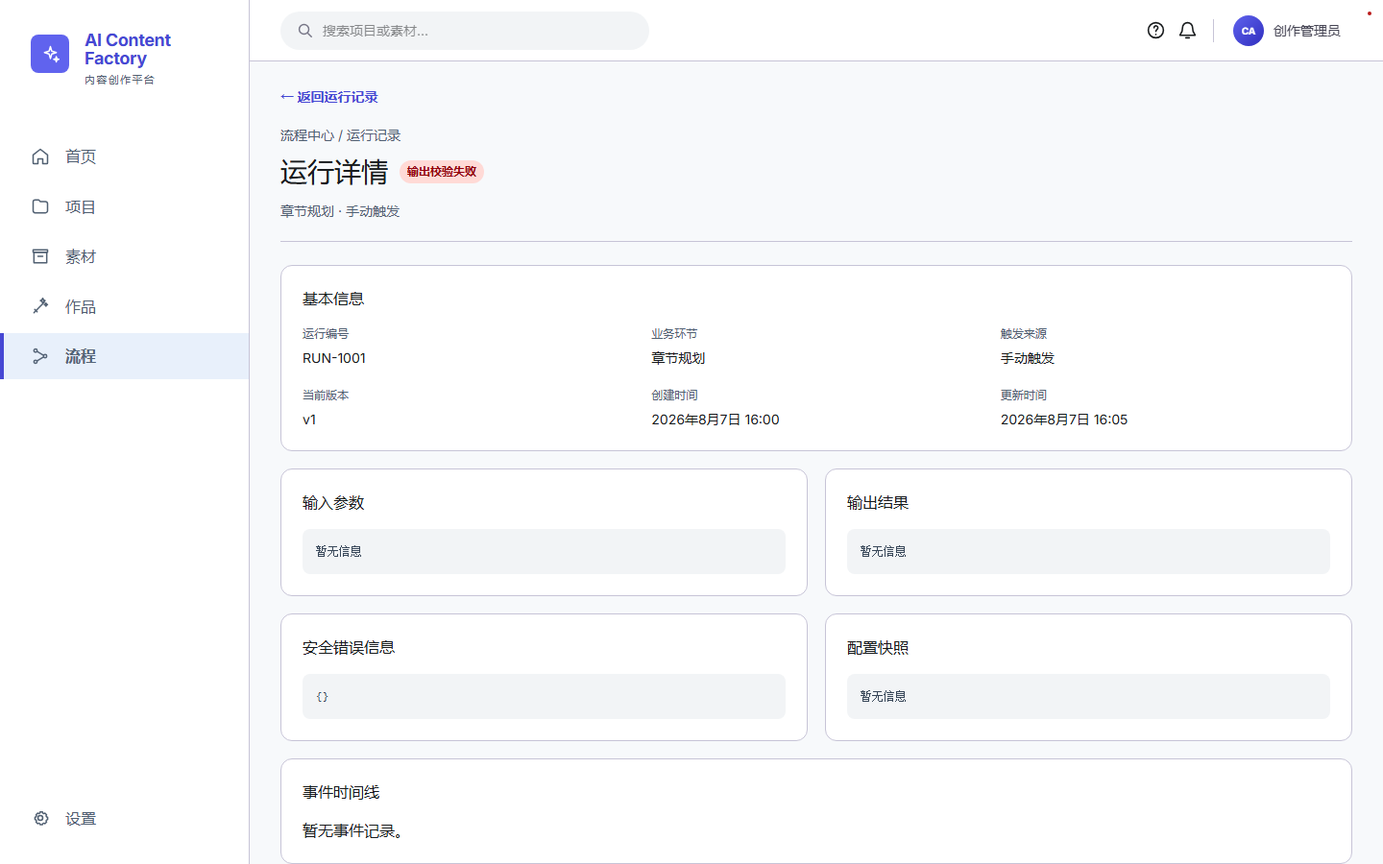
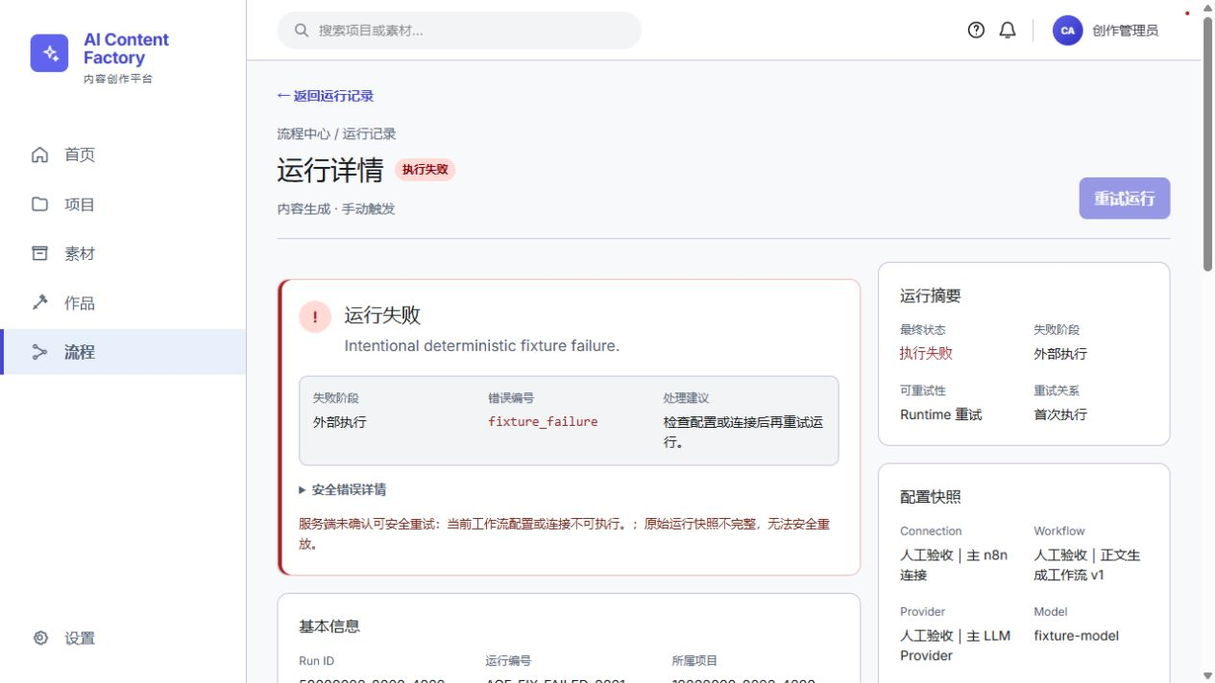
fix(workflow-runs): add failed run diagnosis

diff --git a/apps/web/src/features/workflow-runs/workflow-run-detail-page.tsx b/apps/web/src/features/workflow-runs/workflow-run-detail-page.tsx
@@ -4,38 +4,59 @@ import Link from "next/link";
 import { useCallback, useEffect, useState } from "react";
 import { ApiError } from "@/lib/api";
 import { newIdempotencyKey } from "@/features/workflow-bindings/workflow-binding-api";
-import { cancelWorkflowRun, formatWorkflowRunJson, formatWorkflowRunTime, getWorkflowRun, getWorkflowRunRetryOptions, listWorkflowRunEvents, retryWorkflowRun, type WorkflowRunDetailVm, type WorkflowRunEventVm, type WorkflowRunRetryMode, type WorkflowRunRetryOptions } from "./workflow-run-api";
+import {
+  cancelWorkflowRun,
+  formatWorkflowRunTime,
+  getWorkflowRun,
+  getWorkflowRunRetryOptions,
+  listWorkflowRunEvents,
+  retryWorkflowRun,
+  retryWorkflowRunResultConsumption,
+  type WorkflowRunDetailVm,
+  type WorkflowRunEventVm,
+  type WorkflowRunRetryMode,
+  type WorkflowRunRetryOptions,
+} from "./workflow-run-api";
+
+type RunAction = "cancel" | "retry" | "retry_result";
 
 const apiError = (cause: unknown) => cause instanceof ApiError ? cause : new ApiError("暂时无法获取运行详情。", 0);
+const asRecord = (value: unknown): Record<string, unknown> => value && typeof value === "object" && !Array.isArray(value) ? value as Record<string, unknown> : {};
+const text = (value: unknown, fallback = "—") => typeof value === "string" || typeof value === "number" ? String(value) : fallback;
+
+const redactValue = (value: unknown): unknown => {
+  if (Array.isArray(value)) return value.map(redactValue);
+  if (value && typeof value === "object") {
+    return Object.fromEntries(Object.entries(value).map(([key, item]) => /token|secret|password|authorization|api.?key/i.test(key) ? [key, "[已隐藏]"] : [key, redactValue(item)]));
+  }
+  return value;
+};
+
+const formatPayload = (value: unknown) => {
+  const safe = redactValue(value);
+  return safe && typeof safe === "object" && Object.keys(safe).length ? JSON.stringify(safe, null, 2) : "暂无信息";
+};
 
 function JsonBlock({ title, value }: { title: string; value: unknown }) {
-  return <section className="workflow-run-detail-card"><h2>{title}</h2><pre>{formatWorkflowRunJson(value)}</pre></section>;
+  return <section className="workflow-run-detail-card"><h2>{title}</h2><pre>{formatPayload(value)}</pre></section>;
 }
 
 function Timeline({ events, error, retry }: { events: WorkflowRunEventVm[] | null; error: boolean; retry: () => void }) {
   if (error) return <section className="workflow-run-detail-card"><h2>事件时间线</h2><p>暂时无法获取事件记录。</p><button type="button" onClick={retry}>重新加载事件</button></section>;
   if (!events?.length) return <section className="workflow-run-detail-card"><h2>事件时间线</h2><p>暂无事件记录。</p></section>;
-  return <section className="workflow-run-detail-card"><h2>事件时间线</h2><ol className="workflow-run-timeline">{events.map((event) => <li key={event.id}><div><strong>{event.title}</strong><span>{event.statusLabel} · {event.createdAtLabel}</span></div>{event.payload && <pre>{formatWorkflowRunJson(event.payload)}</pre>}</li>)}</ol></section>;
+  return <section className="workflow-run-detail-card"><h2>事件时间线</h2><ol className="workflow-run-timeline">{events.map((event) => <li key={event.id}><div><strong>{event.title}</strong><span>{event.statusLabel} · {event.createdAtLabel}</span></div>{event.payload && <pre>{formatPayload(event.payload)}</pre>}</li>)}</ol></section>;
 }
 
-function Confirm({ action, busy, retryMode, retryOptions, onCancel, onConfirm, onRetryModeChange }: { action: "cancel" | "retry"; busy: boolean; retryMode: WorkflowRunRetryMode; retryOptions: WorkflowRunRetryOptions | null; onCancel: () => void; onConfirm: () => void; onRetryModeChange: (mode: WorkflowRunRetryMode) => void }) {
-  const retry = action === "retry";
-  const choices = retryOptions ? [retryOptions.currentConfiguration, retryOptions.originalConfiguration] : [];
+function Confirm({ action, busy, retryMode, retryOptions, onCancel, onConfirm, onRetryModeChange }: { action: RunAction; busy: boolean; retryMode: WorkflowRunRetryMode; retryOptions: WorkflowRunRetryOptions | null; onCancel: () => void; onConfirm: () => void; onRetryModeChange: (mode: WorkflowRunRetryMode) => void }) {
+  const cancel = action === "cancel";
+  const runtimeRetry = action === "retry";
+  const resultRetry = action === "retry_result";
+  const choices = runtimeRetry && retryOptions ? [retryOptions.currentConfiguration, retryOptions.originalConfiguration] : [];
   const selected = choices.find((option) => option.mode === retryMode);
-  return <div className="workflow-run-modal" role="dialog" aria-modal="true" aria-label={retry ? "确认重试" : "确认取消"}><div><h2>{retry ? "确认重试运行" : "确认取消运行"}</h2><p>{retry ? "请选择服务器确认可用的重试方式。" : "取消后运行将停止，且无法恢复为执行中。"}</p>{retry && choices.map((option) => <label key={option.mode}><input type="radio" name="retry-mode" checked={retryMode === option.mode} disabled={busy || !option.enabled} onChange={() => onRetryModeChange(option.mode)} />{option.mode === "current_configuration" ? "使用当前配置" : "使用原配置"}{!option.enabled && <span>：{option.reasons.map((reason) => reason.message).join(" ")}</span>}</label>)}<footer><button type="button" disabled={busy} onClick={onCancel}>返回</button><button type="button" disabled={busy || (retry && !selected?.enabled)} onClick={onConfirm}>{busy ? "提交中…" : retry ? "确认重试" : "确认取消"}</button></footer></div></div>;
+  const title = cancel ? "确认取消运行" : resultRetry ? "确认重试结果消费" : "确认重试运行";
+  const description = cancel ? "取消后运行将停止，且无法恢复为执行中。" : resultRetry ? "该操作只会重新消费已返回的结果，不会再次调用外部工作流。" : "请选择服务器确认可用的重试方式。";
+  return <div className="workflow-run-modal" role="dialog" aria-modal="true" aria-label={title}><div><h2>{title}</h2><p>{description}</p>{runtimeRetry && choices.map((option) => <label key={option.mode}><input type="radio" name="retry-mode" checked={retryMode === option.mode} disabled={busy || !option.enabled} onChange={() => onRetryModeChange(option.mode)} />{option.mode === "current_configuration" ? "使用当前配置" : "使用原配置"}{!option.enabled && <span>：{option.reasons.map((reason) => reason.message).join(" ")}</span>}</label>)}<footer><button type="button" disabled={busy} onClick={onCancel}>返回</button><button type="button" disabled={busy || (runtimeRetry && !selected?.enabled)} onClick={onConfirm}>{busy ? "提交中…" : cancel ? "确认取消" : resultRetry ? "确认重试消费" : "确认重试"}</button></footer></div></div>;
 }
-
-const asRecord = (value: unknown): Record<string, unknown> => value && typeof value === "object" && !Array.isArray(value) ? value as Record<string, unknown> : {};
-const text = (value: unknown, fallback = "—") => typeof value === "string" || typeof value === "number" ? String(value) : fallback;
-const redactSuccessValue = (value: unknown): unknown => {
-  if (Array.isArray(value)) return value.map(redactSuccessValue);
-  if (value && typeof value === "object") return Object.fromEntries(Object.entries(value).map(([key, item]) => /token|secret|password|authorization|api.?key/i.test(key) ? [key, "[已隐藏]"] : [key, redactSuccessValue(item)]));
-  return value;
-};
-const formatSuccessPayload = (value: unknown) => {
-  const safe = redactSuccessValue(value);
-  return safe && typeof safe === "object" && Object.keys(safe).length ? JSON.stringify(safe, null, 2) : "暂无信息";
-};
 
 function SuccessRunDetail({ run, events }: { run: WorkflowRunDetailVm; events: WorkflowRunEventVm[] | null }) {
   const configuration = asRecord(run.configurationSnapshot);
@@ -43,36 +64,58 @@ function SuccessRunDetail({ run, events }: { run: WorkflowRunDetailVm; events: W
   const connection = asRecord(configuration.workflowConnection);
   const policy = asRecord(run.llmPolicySnapshot);
   const finishedAtLabel = formatWorkflowRunTime(run.finishedAt);
-  const timeline = [
-    ["已创建", run.createdAtLabel],
-    ["开始执行", run.startedAtLabel],
-    ["运行完成", finishedAtLabel]
-  ].filter(([, value]) => value !== "—");
+  const timeline = [["已创建", run.createdAtLabel], ["开始执行", run.startedAtLabel], ["运行完成", finishedAtLabel]].filter(([, value]) => value !== "—");
 
   return <main className="workflow-run-detail-main"><div className="workflow-run-detail-canvas workflow-run-success-detail">
     <Link className="workflow-run-back" href="/workflow-runs">← 返回运行记录</Link>
     <header><div><p>流程中心 / 运行记录</p><h1>运行详情 <i className="workflow-runs-status succeeded">{run.statusLabel}</i></h1><span>{run.stageLabel} · {run.triggerSourceLabel}</span></div></header>
     <section className="workflow-run-success-summary" aria-label="运行摘要">
-      <div><span>Run ID</span><strong>{run.runNumber}</strong></div>
-      <div><span>业务环节</span><strong>{run.stageLabel}</strong></div>
-      <div><span>开始时间</span><strong>{run.startedAtLabel}</strong></div>
-      <div><span>结束时间</span><strong>{finishedAtLabel}</strong></div>
-      <div><span>耗时</span><strong>{run.durationLabel}</strong></div>
-      <div><span>重试关系</span>{run.retryOfRunId ? <Link href={`/workflow-runs/${run.retryOfRunId}`}>重试自 {run.retryOfRunId}</Link> : <strong>首次执行</strong>}</div>
+      <div><span>Run ID</span><strong>{run.id}</strong></div><div><span>运行编号</span><strong>{run.runNumber}</strong></div><div><span>业务环节</span><strong>{run.stageLabel}</strong></div><div><span>开始时间</span><strong>{run.startedAtLabel}</strong></div><div><span>结束时间</span><strong>{finishedAtLabel}</strong></div><div><span>耗时</span><strong>{run.durationLabel}</strong></div>
     </section>
-    <div className="workflow-run-success-layout">
-      <div>
-        <section className="workflow-run-detail-card"><h2>状态时间线</h2><ol className="workflow-run-success-timeline">{timeline.map(([label, value]) => <li key={label}><strong>{label}</strong><span>{value}</span></li>)}</ol>{events?.length ? <p className="workflow-run-success-events">已记录 {events.length} 条真实运行事件。</p> : <p className="workflow-run-success-events">暂无额外运行事件。</p>}</section>
-        <section className="workflow-run-detail-card"><h2>输入与结果摘要</h2><div className="workflow-run-success-data"><div><h3>输入参数</h3><pre>{formatSuccessPayload(run.inputPayload)}</pre></div><div><h3>结果数据</h3>{run.outputPayload ? <pre>{formatSuccessPayload(run.outputPayload)}</pre> : <p>运行已成功，但服务端未提供结果数据摘要。</p>}</div></div></section>
-        <section className="workflow-run-detail-card workflow-run-success-result"><h2>结果摘要</h2><p>Runtime 已成功完成。领域结果以服务端返回的领域影响为准，不会仅根据成功状态推断候选、报告或版本已被消费。</p><Link className="workflow-run-primary" href="/workflow-runs">返回运行记录</Link></section>
-      </div>
-      <aside className="workflow-run-success-aside">
-        <section className="workflow-run-detail-card"><h2>配置快照</h2><dl><div><dt>Connection</dt><dd>{text(connection.name, text(run.connectionName))}</dd></div><div><dt>Workflow</dt><dd>{text(workflow.name, text(run.workflowName))} {workflow.version ? `v${text(workflow.version)}` : run.workflowVersionLabel}</dd></div><div><dt>Provider</dt><dd>{text(policy.providerName, "不使用模型")}</dd></div><div><dt>Model</dt><dd>{text(policy.model, run.modelStrategyLabel)}</dd></div><div><dt>绑定版本</dt><dd>{text(run.bindingSnapshot?.bindingVersion)}</dd></div></dl></section>
-        {run.externalExecutionId && <section className="workflow-run-detail-card"><h2>外部执行信息</h2><dl><div><dt>外部执行 ID</dt><dd>{run.externalExecutionId}</dd></div></dl></section>}
-        <section className="workflow-run-detail-card"><h2>领域影响</h2>{run.domainImpact.length ? <ul className="workflow-run-domain-impact">{run.domainImpact.map((impact, index) => <li key={`${impact.resourceType}-${impact.resourceId ?? index}`}><strong>{impact.resourceType}</strong><span>{impact.resourceId ?? "—"}</span><em>{impact.outcome}</em></li>)}</ul> : <p className="workflow-run-safe-empty">服务端未返回领域影响记录；这不表示已创建或消费任何领域结果。</p>}</section>
-        <section className="workflow-run-detail-card"><h2>运行元数据</h2><dl><div><dt>创建时间</dt><dd>{run.createdAtLabel}</dd></div><div><dt>更新时间</dt><dd>{run.updatedAtLabel}</dd></div><div><dt>当前版本</dt><dd>v{run.version}</dd></div></dl></section>
-      </aside>
-    </div>
+    <div className="workflow-run-success-layout"><div>
+      <section className="workflow-run-detail-card"><h2>状态时间线</h2><ol className="workflow-run-success-timeline">{timeline.map(([label, value]) => <li key={label}><strong>{label}</strong><span>{value}</span></li>)}</ol><p className="workflow-run-success-events">{events?.length ? `已记录 ${events.length} 条真实运行事件。` : "暂无额外运行事件。"}</p></section>
+      <section className="workflow-run-detail-card"><h2>输入与结果摘要</h2><div className="workflow-run-success-data"><div><h3>输入参数</h3><pre>{formatPayload(run.inputPayload)}</pre></div><div><h3>结果数据</h3>{run.outputPayload ? <pre>{formatPayload(run.outputPayload)}</pre> : <p>运行已成功，但服务端未提供结果数据摘要。</p>}</div></div></section>
+      <section className="workflow-run-detail-card workflow-run-success-result"><h2>结果摘要</h2><p>Runtime 已成功完成。领域结果以服务端返回的领域影响为准，不会仅根据成功状态推断候选、报告或版本已被消费。</p><Link className="workflow-run-primary" href="/workflow-runs">返回运行记录</Link></section>
+    </div><aside className="workflow-run-success-aside">
+      <section className="workflow-run-detail-card"><h2>配置快照</h2><dl><div><dt>Connection</dt><dd>{text(connection.name, text(run.connectionName))}</dd></div><div><dt>Workflow</dt><dd>{text(workflow.name, text(run.workflowName))} {workflow.version ? `v${text(workflow.version)}` : run.workflowVersionLabel}</dd></div><div><dt>Provider</dt><dd>{text(policy.providerName, "未使用模型")}</dd></div><div><dt>Model</dt><dd>{text(policy.model, run.modelStrategyLabel)}</dd></div><div><dt>绑定版本</dt><dd>{text(run.bindingSnapshot?.bindingVersion)}</dd></div></dl></section>
+      {run.externalExecutionId && <section className="workflow-run-detail-card"><h2>外部执行信息</h2><dl><div><dt>外部执行 ID</dt><dd>{run.externalExecutionId}</dd></div></dl></section>}
+      {run.domainImpact.length > 0 && <section className="workflow-run-detail-card"><h2>领域影响</h2><ul className="workflow-run-domain-impact">{run.domainImpact.map((impact, index) => <li key={`${impact.resourceType}-${impact.resourceId ?? index}`}><strong>{impact.resourceType}</strong><span>{impact.resourceId ?? "—"}</span><em>{impact.outcome}</em></li>)}</ul></section>}
+      <section className="workflow-run-detail-card"><h2>运行元数据</h2><dl><div><dt>创建时间</dt><dd>{run.createdAtLabel}</dd></div><div><dt>更新时间</dt><dd>{run.updatedAtLabel}</dd></div><div><dt>当前版本</dt><dd>v{run.version}</dd></div><div><dt>重试关系</dt><dd>{run.retryOfRunId ? <Link href={`/workflow-runs/${run.retryOfRunId}`}>重试自 {run.retryOfRunId}</Link> : "首次执行"}</dd></div></dl></section>
+    </aside></div>
+  </div></main>;
+}
+
+const failurePhaseLabels: Record<string, string> = { external_execution: "外部执行", output_validation: "输出校验", result_consumption: "结果消费", cancellation: "取消处理" };
+
+function FailureRunDetail({ run, events, eventsError, retryOptions, retryAvailable, notice, onAction, onRetryEvents }: { run: WorkflowRunDetailVm; events: WorkflowRunEventVm[] | null; eventsError: boolean; retryOptions: WorkflowRunRetryOptions | null; retryAvailable: boolean; notice: string; onAction: (action: RunAction) => void; onRetryEvents: () => void }) {
+  const failureTitle = run.displayStatus === "output_validation_failed" ? "输出校验失败" : run.displayStatus === "result_consumption_failed" ? "结果消费失败" : run.status === "timed_out" ? "运行超时" : "运行失败";
+  const phaseLabel = run.failurePhase ? failurePhaseLabels[run.failurePhase] ?? run.failurePhase : "—";
+  const errorCode = run.failureCode ?? run.errorCode ?? "—";
+  const errorMessage = run.safeError?.message ?? run.errorMessage ?? "服务端未提供安全错误摘要。";
+  const runtimeRetry = run.canRetry && run.retryability === "runtime_retry";
+  const resultRetry = run.canRetryResultConsumption || run.retryability === "result_consumption_retry";
+  const retryReasons = retryOptions ? [...retryOptions.currentConfiguration.reasons, ...retryOptions.originalConfiguration.reasons].map((reason) => reason.message).filter((message, index, list) => list.indexOf(message) === index) : [];
+  const configuration = asRecord(run.configurationSnapshot);
+  const workflow = asRecord(configuration.workflowConfiguration);
+  const connection = asRecord(configuration.workflowConnection);
+  const policy = asRecord(run.llmPolicySnapshot);
+
+  return <main className="workflow-run-detail-main"><div className="workflow-run-detail-canvas workflow-run-failure-detail">
+    <Link className="workflow-run-back" href="/workflow-runs">← 返回运行记录</Link>
+    <header><div><p>流程中心 / 运行记录</p><h1>运行详情 <i className="workflow-runs-status failed">{run.statusLabel}</i></h1><span>{run.stageLabel} · {run.triggerSourceLabel}</span></div><div className="workflow-run-detail-actions">{runtimeRetry && <button type="button" className="workflow-run-primary" disabled={!retryAvailable} onClick={() => onAction("retry")}>重试运行</button>}{resultRetry && <button type="button" className="workflow-run-primary" onClick={() => onAction("retry_result")}>重试结果消费</button>}</div></header>
+    {notice && <p className="workflow-run-notice" role="alert">{notice}</p>}
+    <div className="workflow-run-failure-layout"><div>
+      <section className="workflow-run-detail-card workflow-run-failure-summary"><div className="workflow-run-failure-heading"><span aria-hidden="true">!</span><div><h2>{failureTitle}</h2><p>{errorMessage}</p></div></div><dl><div><dt>失败阶段</dt><dd>{phaseLabel}</dd></div><div><dt>错误编号</dt><dd className="workflow-run-error-code">{errorCode}</dd></div><div><dt>处理建议</dt><dd>{resultRetry ? "仅重新消费服务端已返回的结果。" : runtimeRetry ? "检查配置或连接后再重试运行。" : "当前状态没有可用的恢复操作。"}</dd></div></dl><details><summary>安全错误详情</summary><pre>{formatPayload({ safeError: run.safeError, errorDetails: run.errorDetails })}</pre></details><div className="workflow-run-recovery">{runtimeRetry && !retryAvailable && <p>服务端未确认可安全重试：{retryReasons.length ? retryReasons.join("；") : "暂无可用的重试配置。"}</p>}{runtimeRetry && retryAvailable && <button type="button" className="workflow-run-primary" onClick={() => onAction("retry")}>选择重试配置</button>}{resultRetry && <button type="button" className="workflow-run-primary" onClick={() => onAction("retry_result")}>重新消费结果</button>}</div></section>
+      <section className="workflow-run-detail-card"><h2>基本信息</h2><dl><div><dt>Run ID</dt><dd>{run.id}</dd></div><div><dt>运行编号</dt><dd>{run.runNumber}</dd></div><div><dt>所属项目</dt><dd>{run.projectId}</dd></div><div><dt>业务环节</dt><dd>{run.stageLabel}</dd></div><div><dt>工作流</dt><dd>{run.workflowName} {run.workflowVersionLabel}</dd></div><div><dt>触发来源</dt><dd>{run.triggerSourceLabel}</dd></div><div><dt>开始时间</dt><dd>{run.startedAtLabel}</dd></div><div><dt>结束时间</dt><dd>{formatWorkflowRunTime(run.finishedAt)}</dd></div><div><dt>总耗时</dt><dd>{run.durationLabel}</dd></div><div><dt>当前版本</dt><dd>v{run.version}</dd></div></dl></section>
+      <JsonBlock title="输入参数" value={run.inputPayload} />
+      {run.outputPayload && <JsonBlock title="外部输出（未形成领域结果）" value={run.outputPayload} />}
+      <Timeline events={events} error={eventsError} retry={onRetryEvents} />
+    </div><aside className="workflow-run-failure-aside">
+      <section className="workflow-run-detail-card"><h2>运行摘要</h2><dl><div><dt>最终状态</dt><dd className="workflow-run-error-code">{run.statusLabel}</dd></div><div><dt>失败阶段</dt><dd>{phaseLabel}</dd></div><div><dt>可重试性</dt><dd>{resultRetry ? "结果消费重试" : runtimeRetry ? "Runtime 重试" : "不可重试"}</dd></div><div><dt>重试关系</dt><dd>{run.retryOfRunId ? <Link href={`/workflow-runs/${run.retryOfRunId}`}>重试自 {run.retryOfRunId}</Link> : "首次执行"}</dd></div></dl></section>
+      <section className="workflow-run-detail-card"><h2>配置快照</h2><dl><div><dt>Connection</dt><dd>{text(connection.name, text(run.connectionName))}</dd></div><div><dt>Workflow</dt><dd>{text(workflow.name, text(run.workflowName))} {workflow.version ? `v${text(workflow.version)}` : run.workflowVersionLabel}</dd></div><div><dt>Provider</dt><dd>{text(policy.providerName, "未使用模型")}</dd></div><div><dt>Model</dt><dd>{text(policy.model, run.modelStrategyLabel)}</dd></div><div><dt>绑定版本</dt><dd>{text(run.bindingSnapshot?.bindingVersion)}</dd></div></dl></section>
+      {run.externalExecutionId && <section className="workflow-run-detail-card"><h2>外部执行信息</h2><dl><div><dt>外部执行 ID</dt><dd>{run.externalExecutionId}</dd></div></dl></section>}
+      {run.domainImpact.length > 0 && <section className="workflow-run-detail-card"><h2>领域影响</h2><ul className="workflow-run-domain-impact">{run.domainImpact.map((impact, index) => <li key={`${impact.resourceType}-${impact.resourceId ?? index}`}><strong>{impact.resourceType}</strong><span>{impact.resourceId ?? "—"}</span><em>{impact.outcome}</em></li>)}</ul></section>}
+    </aside></div>
   </div></main>;
 }
 
@@ -83,7 +126,7 @@ export function WorkflowRunDetailPage({ runId }: { runId: string }) {
   const [retryMode, setRetryMode] = useState<WorkflowRunRetryMode>("current_configuration");
   const [error, setError] = useState<ApiError | null>(null);
   const [eventsError, setEventsError] = useState(false);
-  const [action, setAction] = useState<"cancel" | "retry" | null>(null);
+  const [action, setAction] = useState<RunAction | null>(null);
   const [busy, setBusy] = useState(false);
   const [notice, setNotice] = useState("");
 
@@ -94,10 +137,7 @@ export function WorkflowRunDetailPage({ runId }: { runId: string }) {
       if (!signal?.aborted) setRun(detail);
       try {
         const options = await getWorkflowRunRetryOptions(runId, { signal });
-        if (!signal?.aborted) {
-          setRetryOptions(options);
-          setRetryMode(options.currentConfiguration.enabled ? "current_configuration" : "original_configuration");
-        }
+        if (!signal?.aborted) { setRetryOptions(options); setRetryMode(options.currentConfiguration.enabled ? "current_configuration" : "original_configuration"); }
       } catch { if (!signal?.aborted) setRetryOptions(null); }
       try {
         const list = await listWorkflowRunEvents(runId, { signal });
@@ -106,11 +146,7 @@ export function WorkflowRunDetailPage({ runId }: { runId: string }) {
     } catch (cause) { if (!signal?.aborted) setError(apiError(cause)); }
   }, [runId]);
 
-  useEffect(() => {
-    const controller = new AbortController();
-    const timer = window.setTimeout(() => void load(controller.signal), 0);
-    return () => { window.clearTimeout(timer); controller.abort(); };
-  }, [load]);
+  useEffect(() => { const controller = new AbortController(); const timer = window.setTimeout(() => void load(controller.signal), 0); return () => { window.clearTimeout(timer); controller.abort(); }; }, [load]);
 
   const doAction = async () => {
     if (!run || !action) return;
@@ -118,6 +154,7 @@ export function WorkflowRunDetailPage({ runId }: { runId: string }) {
     try {
       const key = newIdempotencyKey();
       if (action === "cancel") { await cancelWorkflowRun(run.id, run.version, key); setAction(null); await load(); }
+      else if (action === "retry_result") { await retryWorkflowRunResultConsumption(run, key); setAction(null); await load(); }
       else { const next = await retryWorkflowRun(run.id, run.version, key, retryMode); window.location.assign(`/workflow-runs/${next.id}`); }
     } catch (cause) {
       const item = apiError(cause);
@@ -130,5 +167,7 @@ export function WorkflowRunDetailPage({ runId }: { runId: string }) {
   if (!run) return <main className="workflow-run-detail-main"><section className="workflow-run-detail-state" role="status"><span /><p>正在加载运行详情…</p></section></main>;
   if (run.status === "succeeded") return <SuccessRunDetail run={run} events={events} />;
   const retryAvailable = Boolean(retryOptions?.currentConfiguration.enabled || retryOptions?.originalConfiguration.enabled);
-  return <main className="workflow-run-detail-main"><div className="workflow-run-detail-canvas"><Link className="workflow-run-back" href="/workflow-runs">← 返回运行记录</Link><header><div><p>流程中心 / 运行记录</p><h1>运行详情 <i className={`workflow-runs-status ${run.status}`}>{run.statusLabel}</i></h1><span>{run.stageLabel} · {run.triggerSourceLabel}</span></div><div>{run.canCancel && <button type="button" className="workflow-run-danger" onClick={() => setAction("cancel")}>取消运行</button>}{run.canRetry && retryAvailable && <button type="button" className="workflow-run-primary" onClick={() => setAction("retry")}>重新运行</button>}</div></header>{notice && <p className="workflow-run-notice" role="alert">{notice}</p>}<section className="workflow-run-detail-card"><h2>基本信息</h2><dl><div><dt>运行编号</dt><dd>{run.runNumber}</dd></div><div><dt>业务环节</dt><dd>{run.stageLabel}</dd></div><div><dt>触发来源</dt><dd>{run.triggerSourceLabel}</dd></div><div><dt>当前版本</dt><dd>v{run.version}</dd></div><div><dt>创建时间</dt><dd>{run.createdAtLabel}</dd></div><div><dt>更新时间</dt><dd>{run.updatedAtLabel}</dd></div></dl></section><div className="workflow-run-detail-grid"><JsonBlock title="输入参数" value={run.inputPayload} /><JsonBlock title="输出结果" value={run.outputPayload} /><JsonBlock title="安全错误信息" value={{ 错误编号: run.errorCode ?? "暂无", 错误说明: run.errorMessage ?? "暂无", 详情: run.errorDetails ?? {} }} /><JsonBlock title="配置快照" value={run.configurationSnapshot} /></div><Timeline events={events} error={eventsError} retry={() => void listWorkflowRunEvents(runId).then(setEvents).then(() => setEventsError(false)).catch(() => setEventsError(true))} /></div>{action && <Confirm action={action} busy={busy} retryMode={retryMode} retryOptions={retryOptions} onCancel={() => setAction(null)} onConfirm={() => void doAction()} onRetryModeChange={setRetryMode} />}</main>;
+  const isFailure = run.status === "failed" || run.status === "timed_out" || run.displayStatus === "output_validation_failed" || run.displayStatus === "result_consumption_failed";
+  if (isFailure) return <><FailureRunDetail run={run} events={events} eventsError={eventsError} retryOptions={retryOptions} retryAvailable={retryAvailable} notice={notice} onAction={setAction} onRetryEvents={() => void listWorkflowRunEvents(runId).then(setEvents).then(() => setEventsError(false)).catch(() => setEventsError(true))} />{action && <Confirm action={action} busy={busy} retryMode={retryMode} retryOptions={retryOptions} onCancel={() => setAction(null)} onConfirm={() => void doAction()} onRetryModeChange={setRetryMode} />}</>;
+  return <main className="workflow-run-detail-main"><div className="workflow-run-detail-canvas"><Link className="workflow-run-back" href="/workflow-runs">← 返回运行记录</Link><header><div><p>流程中心 / 运行记录</p><h1>运行详情 <i className={`workflow-runs-status ${run.status}`}>{run.statusLabel}</i></h1><span>{run.stageLabel} · {run.triggerSourceLabel}</span></div><div>{run.canCancel && <button type="button" className="workflow-run-danger" onClick={() => setAction("cancel")}>取消运行</button>}</div></header>{notice && <p className="workflow-run-notice" role="alert">{notice}</p>}<section className="workflow-run-detail-card"><h2>基本信息</h2><dl><div><dt>运行编号</dt><dd>{run.runNumber}</dd></div><div><dt>业务环节</dt><dd>{run.stageLabel}</dd></div><div><dt>触发来源</dt><dd>{run.triggerSourceLabel}</dd></div><div><dt>当前版本</dt><dd>v{run.version}</dd></div><div><dt>创建时间</dt><dd>{run.createdAtLabel}</dd></div><div><dt>更新时间</dt><dd>{run.updatedAtLabel}</dd></div></dl></section><div className="workflow-run-detail-grid"><JsonBlock title="输入参数" value={run.inputPayload} /><JsonBlock title="输出结果" value={run.outputPayload} /><JsonBlock title="安全错误信息" value={{ errorCode: run.errorCode ?? "暂无", errorMessage: run.errorMessage ?? "暂无", details: run.errorDetails ?? {} }} /><JsonBlock title="配置快照" value={run.configurationSnapshot} /></div><Timeline events={events} error={eventsError} retry={() => void listWorkflowRunEvents(runId).then(setEvents).then(() => setEventsError(false)).catch(() => setEventsError(true))} /></div>{action && <Confirm action={action} busy={busy} retryMode={retryMode} retryOptions={retryOptions} onCancel={() => setAction(null)} onConfirm={() => void doAction()} onRetryModeChange={setRetryMode} />}</main>;
 }

diff --git a/apps/web/src/app/globals.css b/apps/web/src/app/globals.css
@@ -496,7 +496,8 @@ button,a { -webkit-tap-highlight-color:transparent; }
 .workflow-run-success-summary{display:grid;grid-template-columns:repeat(6,minmax(120px,1fr));gap:0;margin:0 0 20px;border:1px solid var(--s00-outline);border-radius:10px;background:#fff}.workflow-run-success-summary>div{min-width:0;padding:16px;border-right:1px solid var(--s00-outline)}.workflow-run-success-summary>div:last-child{border-right:0}.workflow-run-success-summary span{display:block;color:var(--s00-muted);font-size:12px}.workflow-run-success-summary strong,.workflow-run-success-summary a{display:block;margin-top:5px;overflow-wrap:anywhere;color:var(--s00-ink);font-size:14px}.workflow-run-success-summary a{color:var(--s00-primary);font-weight:700;text-decoration:none}.workflow-run-success-layout{display:grid;grid-template-columns:minmax(0,1.8fr) minmax(280px,.9fr);gap:18px}.workflow-run-success-layout .workflow-run-detail-card{margin-top:0}.workflow-run-success-aside{display:grid;align-content:start;gap:18px}.workflow-run-success-aside .workflow-run-detail-card{margin:0}.workflow-run-success-timeline{display:grid;grid-template-columns:repeat(3,minmax(0,1fr));gap:12px;margin:0;padding:0;list-style:none}.workflow-run-success-timeline li{position:relative;padding:10px 10px 10px 20px;border-left:2px solid #84a9f4}.workflow-run-success-timeline li:before{position:absolute;top:14px;left:-6px;width:10px;height:10px;border-radius:50%;background:#1e6b36;content:""}.workflow-run-success-timeline strong,.workflow-run-success-timeline span{display:block}.workflow-run-success-timeline span,.workflow-run-success-events,.workflow-run-safe-empty{margin:5px 0 0;color:var(--s00-muted);font-size:13px;line-height:1.6}.workflow-run-success-data{display:grid;grid-template-columns:1fr 1fr;gap:16px}.workflow-run-success-data h3{margin:0 0 8px;color:var(--s00-outline-strong);font-size:12px}.workflow-run-success-data p{margin:0;padding:14px;border-radius:8px;color:var(--s00-muted);background:var(--s00-low);font-size:13px;line-height:1.6}.workflow-run-success-result{display:flex;align-items:center;flex-wrap:wrap;gap:16px}.workflow-run-success-result h2{width:100%;margin-bottom:0}.workflow-run-success-result p{flex:1;min-width:220px;margin:0;color:var(--s00-muted);font-size:14px;line-height:1.65}.workflow-run-success-result .workflow-run-primary{color:#fff;text-decoration:none}.workflow-run-domain-impact{display:grid;gap:8px;margin:0;padding:0;list-style:none}.workflow-run-domain-impact li{display:grid;grid-template-columns:1fr auto;gap:4px 12px;border:1px solid var(--s00-outline);border-radius:7px;padding:10px}.workflow-run-domain-impact strong{color:var(--s00-ink);font-size:13px}.workflow-run-domain-impact span{overflow-wrap:anywhere;color:var(--s00-muted);font-size:12px}.workflow-run-domain-impact em{grid-column:1/-1;color:#1e6b36;font-size:12px;font-style:normal;font-weight:700}
 @media(max-width:1080px){.workflow-run-success-summary{grid-template-columns:repeat(3,minmax(0,1fr))}.workflow-run-success-summary>div:nth-child(3n){border-right:0}.workflow-run-success-layout{grid-template-columns:1fr}}
 @media(max-width:620px){.workflow-run-success-summary,.workflow-run-success-timeline,.workflow-run-success-data{grid-template-columns:1fr}.workflow-run-success-summary>div{border-right:0;border-bottom:1px solid var(--s00-outline)}.workflow-run-success-summary>div:last-child{border-bottom:0}}
-.content-context-tabs{display:flex;margin:-20px -16px 20px;border-bottom:1px solid #dfe2e6}.content-context-tabs button{flex:1;border:0;border-bottom:2px solid transparent;padding:12px 4px;background:#fff;color:#596171;font-weight:800;cursor:pointer}.content-context-tabs button[aria-selected="true"]{border-color:#4648d4;color:#4648d4}.content-generation-drawer{width:min(620px,100%)}.content-generation-drawer fieldset{display:grid;gap:9px;margin:0 0 16px;border:1px solid #dfe2e6;border-radius:8px;padding:12px;color:#313540}.content-generation-drawer fieldset label{display:block;margin:0;font-weight:400}.content-preflight-passed,.content-preflight-blocked{margin-top:14px;border-radius:8px;padding:12px;font-size:13px;line-height:1.55}.content-preflight-passed{border:1px solid #9acfa9;background:#eef9f0}.content-preflight-blocked{border:1px solid #f2aaa3;background:#fff0ee}.content-preflight-passed h3,.content-preflight-blocked h3{margin:0 0 8px}.content-preflight-passed p,.content-preflight-blocked p{margin:5px 0}
+ .workflow-run-detail-actions{display:flex;flex-wrap:wrap;gap:10px}.workflow-run-detail-actions button:disabled{cursor:not-allowed;opacity:.55}.workflow-run-failure-layout{display:grid;grid-template-columns:minmax(0,1.8fr) minmax(280px,.9fr);gap:18px}.workflow-run-failure-layout>.workflow-run-failure-aside{display:grid;align-content:start;gap:18px}.workflow-run-failure-layout>.workflow-run-failure-aside .workflow-run-detail-card{margin:0}.workflow-run-failure-summary{border-color:#f1b6b2;box-shadow:inset 4px 0 0 #a3232a}.workflow-run-failure-heading{display:flex;align-items:flex-start;gap:14px;margin-bottom:18px}.workflow-run-failure-heading>span{display:grid;flex:none;width:34px;height:34px;place-items:center;border-radius:50%;color:#a3232a;background:#ffdad6;font-weight:800}.workflow-run-failure-heading h2{margin:0 0 5px;color:var(--s00-ink);font-size:20px}.workflow-run-failure-heading p{margin:0;color:var(--s00-muted);line-height:1.6}.workflow-run-failure-summary>dl{display:grid;grid-template-columns:repeat(3,minmax(0,1fr));gap:14px;margin:0;padding:14px;border:1px solid var(--s00-outline);border-radius:9px;background:var(--s00-low)}.workflow-run-failure-summary dt{color:var(--s00-muted);font-size:12px}.workflow-run-failure-summary dd{margin:5px 0 0;color:var(--s00-ink);font-size:14px;line-height:1.5}.workflow-run-error-code{color:#a3232a!important;font-family:ui-monospace,Consolas,monospace}.workflow-run-failure-summary details{margin-top:16px}.workflow-run-failure-summary summary{color:var(--s00-muted);cursor:pointer;font-size:13px;font-weight:700}.workflow-run-failure-summary details pre{max-height:240px;margin:10px 0 0;padding:14px;overflow:auto;border-radius:8px;color:#f8fafc;background:#20252b;font:12px/1.6 ui-monospace,Consolas,monospace;white-space:pre-wrap;overflow-wrap:anywhere}.workflow-run-recovery{display:flex;flex-wrap:wrap;align-items:center;gap:12px;margin-top:16px}.workflow-run-recovery p{flex:1;min-width:220px;margin:0;color:#7a271a;font-size:13px;line-height:1.6}.workflow-run-failure-aside .workflow-run-detail-card dl{grid-template-columns:1fr 1fr}.workflow-run-failure-aside .workflow-run-detail-card dd a{color:var(--s00-primary);font-weight:700;text-decoration:none}@media(max-width:1080px){.workflow-run-failure-layout{grid-template-columns:1fr}}@media(max-width:620px){.workflow-run-failure-summary>dl{grid-template-columns:1fr}.workflow-run-failure-aside .workflow-run-detail-card dl{grid-template-columns:1fr}}
+ .content-context-tabs{display:flex;margin:-20px -16px 20px;border-bottom:1px solid #dfe2e6}.content-context-tabs button{flex:1;border:0;border-bottom:2px solid transparent;padding:12px 4px;background:#fff;color:#596171;font-weight:800;cursor:pointer}.content-context-tabs button[aria-selected="true"]{border-color:#4648d4;color:#4648d4}.content-generation-drawer{width:min(620px,100%)}.content-generation-drawer fieldset{display:grid;gap:9px;margin:0 0 16px;border:1px solid #dfe2e6;border-radius:8px;padding:12px;color:#313540}.content-generation-drawer fieldset label{display:block;margin:0;font-weight:400}.content-preflight-passed,.content-preflight-blocked{margin-top:14px;border-radius:8px;padding:12px;font-size:13px;line-height:1.55}.content-preflight-passed{border:1px solid #9acfa9;background:#eef9f0}.content-preflight-blocked{border:1px solid #f2aaa3;background:#fff0ee}.content-preflight-passed h3,.content-preflight-blocked h3{margin:0 0 8px}.content-preflight-passed p,.content-preflight-blocked p{margin:5px 0}
 .workflow-runs-main{min-width:0;min-height:100vh;margin-left:260px;padding:88px 32px 48px;background:var(--s00-surface)}.workflow-runs-canvas{width:100%;max-width:1440px;margin:0 auto}.workflow-runs-heading{margin-bottom:28px}.workflow-runs-heading h1{margin:0;color:var(--s00-ink);font-size:32px;line-height:40px;letter-spacing:-.02em}.workflow-runs-heading>p:not(.workflow-runs-breadcrumb):not(.workflow-runs-context){margin:4px 0 0;color:var(--s00-muted);font-size:16px;line-height:24px}.workflow-runs-breadcrumb{display:flex;gap:8px;margin:0 0 8px;color:var(--s00-outline-strong);font-size:12px;letter-spacing:.08em;text-transform:uppercase}.workflow-runs-context{display:inline-block;margin:12px 0 0;padding:5px 10px;border-radius:999px;color:#42526a;background:#e8f0fb;font-size:12px}.workflow-runs-panel{min-width:0;overflow:hidden;border:1px solid var(--s00-outline);border-radius:12px;background:#fff}.workflow-runs-filters{display:flex;align-items:end;gap:12px;flex-wrap:wrap;padding:16px;border-bottom:1px solid var(--s00-outline);background:#fff}.workflow-runs-filters label{display:grid;gap:5px;color:var(--s00-outline-strong);font-size:12px;font-weight:600}.workflow-runs-filters input,.workflow-runs-filters select{height:38px;border:1px solid var(--s00-outline);border-radius:8px;padding:0 12px;outline:none;color:var(--s00-ink);background:#fff;font-size:14px;font-weight:400}.workflow-runs-filters input:focus,.workflow-runs-filters select:focus{border-color:var(--s00-primary);box-shadow:0 0 0 3px rgba(70,72,212,.12)}.workflow-runs-search{width:260px}.workflow-runs-search input{box-sizing:border-box;width:100%}.workflow-runs-reset{height:38px;margin-left:auto;border:0;border-radius:8px;padding:0 12px;color:var(--s00-primary);background:transparent;font-size:14px;font-weight:600;cursor:pointer}.workflow-runs-reset:hover{background:rgba(70,72,212,.08)}.workflow-runs-table{min-width:1120px}.workflow-runs-table-head,.workflow-runs-row{display:grid;grid-template-columns:1.15fr 1fr .9fr .85fr 1fr 1.1fr 1.1fr .8fr;gap:16px;align-items:center;padding:14px 20px}.workflow-runs-table-head{border-bottom:1px solid var(--s00-outline);color:var(--s00-outline-strong);background:var(--s00-low);font-size:12px;font-weight:700}.workflow-runs-row{border-bottom:1px solid #edf0f2;color:#46505d;font-size:14px;line-height:20px}.workflow-runs-row:last-child{border-bottom:0}.workflow-runs-row strong,.workflow-runs-row>span{min-width:0;overflow:hidden;text-overflow:ellipsis;white-space:nowrap}.workflow-runs-row strong{color:var(--s00-ink);font-size:13px}.workflow-runs-row time{color:var(--s00-outline-strong);font-size:13px}.workflow-runs-status{display:inline-block;padding:3px 8px;border-radius:999px;font-style:normal;font-size:12px;font-weight:700;white-space:nowrap}.workflow-runs-status.queued{color:#6d5d10;background:#fff3cd}.workflow-runs-status.running{color:#254e8f;background:#dbeafe}.workflow-runs-status.succeeded{color:#1e6b36;background:#e6f4ea}.workflow-runs-status.failed{color:#93000a;background:#ffdad6}.workflow-runs-status.cancelled,.workflow-runs-status.unknown{color:#59616c;background:#e6e8ea}.workflow-runs-pending{color:var(--s00-outline-strong);font-size:12px}.workflow-runs-state{display:flex;min-height:380px;flex-direction:column;align-items:center;justify-content:center;padding:48px 24px;text-align:center}.workflow-runs-state h2{margin:0;color:var(--s00-ink);font-size:18px}.workflow-runs-state p{max-width:480px;margin:8px 0 0;color:var(--s00-muted);font-size:14px;line-height:22px}.workflow-runs-state.error h2{color:#93000a}.workflow-runs-state.error button{margin-top:20px;border:0;border-radius:8px;padding:10px 18px;color:#fff;background:var(--s00-primary);font-weight:600;cursor:pointer}.workflow-runs-state.loading span{width:28px;height:28px;border:3px solid #d2e1f7;border-top-color:var(--s00-primary);border-radius:50%;animation:workflow-runs-spin .8s linear infinite}@keyframes workflow-runs-spin{to{transform:rotate(360deg)}}@media(max-width:1180px){.workflow-runs-panel{overflow-x:auto}.workflow-runs-reset{margin-left:0}}@media(max-width:820px){.workflow-runs-main{margin-left:0;padding:88px 16px 32px}}@media(max-width:540px){.workflow-runs-heading h1{font-size:28px}.workflow-runs-search{width:100%}.workflow-runs-filters label{flex:1;min-width:130px}.workflow-runs-filters select{width:100%}}
 .content-generation-status{display:flex;align-items:center;justify-content:space-between;gap:16px;padding:10px 32px;border-bottom:1px solid #bdd1f6;color:#174ea6;background:#edf5ff;font-size:13px}.content-generation-status>div:first-child{display:flex;align-items:center;flex-wrap:wrap;gap:10px}.content-generation-status strong{font-size:14px}.content-generation-status span+span:before{margin-right:10px;color:#9aa3ad;content:"|"}.content-generation-status-queued{border-color:#f3d4a2;color:#8a4b00;background:#fff7ea}.content-generation-status-candidate_ready{border-color:#a7d7b5;color:#176a3a;background:#effbf2}.content-generation-status-runtime_failed,.content-generation-status-output_validation_failed,.content-generation-status-result_consumption_failed{border-color:#efb9b3;color:#9a2d28;background:#fff1f0}.content-generation-status-actions{display:flex;align-items:center;flex-wrap:wrap;gap:10px}.content-generation-status button,.content-generation-status a{border:0;color:#164db8;background:transparent;font-weight:800;cursor:pointer;text-decoration:none}.content-generation-status button:last-child{padding:7px 10px;border-radius:6px;color:#fff;background:#245fc5}.content-generation-status button:disabled{opacity:.55;cursor:not-allowed}.content-generation-events{grid-column:1/-1;width:100%;margin:2px 0 0;padding:10px 18px;border-radius:7px;background:rgba(255,255,255,.65);list-style-position:inside}.content-generation-events li{margin:4px 0}.content-generation-events span{margin-left:10px;color:#596171}.content-candidate-compare{margin:16px 24px;border:1px solid #adc0ce;border-radius:10px;background:#f1f7fa}.content-candidate-compare>header{display:flex;align-items:center;justify-content:space-between;gap:14px;padding:14px 16px;border-bottom:1px solid #cbd8e0}.content-candidate-compare header>div{display:flex;align-items:center;flex-wrap:wrap;gap:8px}.content-candidate-compare header span{color:#596171;font-size:12px}.content-candidate-compare button{min-height:32px;border:1px solid #aebdc8;border-radius:6px;padding:0 10px;color:#21425f;background:#fff;font-weight:800;cursor:pointer}.content-candidate-compare .content-candidate-apply{border-color:#245fc5;color:#fff;background:#245fc5}.content-candidate-compare button:disabled{opacity:.55;cursor:not-allowed}.content-candidate-compare article{padding:16px;background:#fff}.content-candidate-compare article h2{margin:0 0 10px;font-size:15px}.content-candidate-compare article p{margin:0;white-space:pre-wrap;line-height:1.8}@media(max-width:900px){.content-generation-status{align-items:flex-start;flex-direction:column;padding:10px 16px}.content-candidate-compare{margin:12px 16px}}
 
